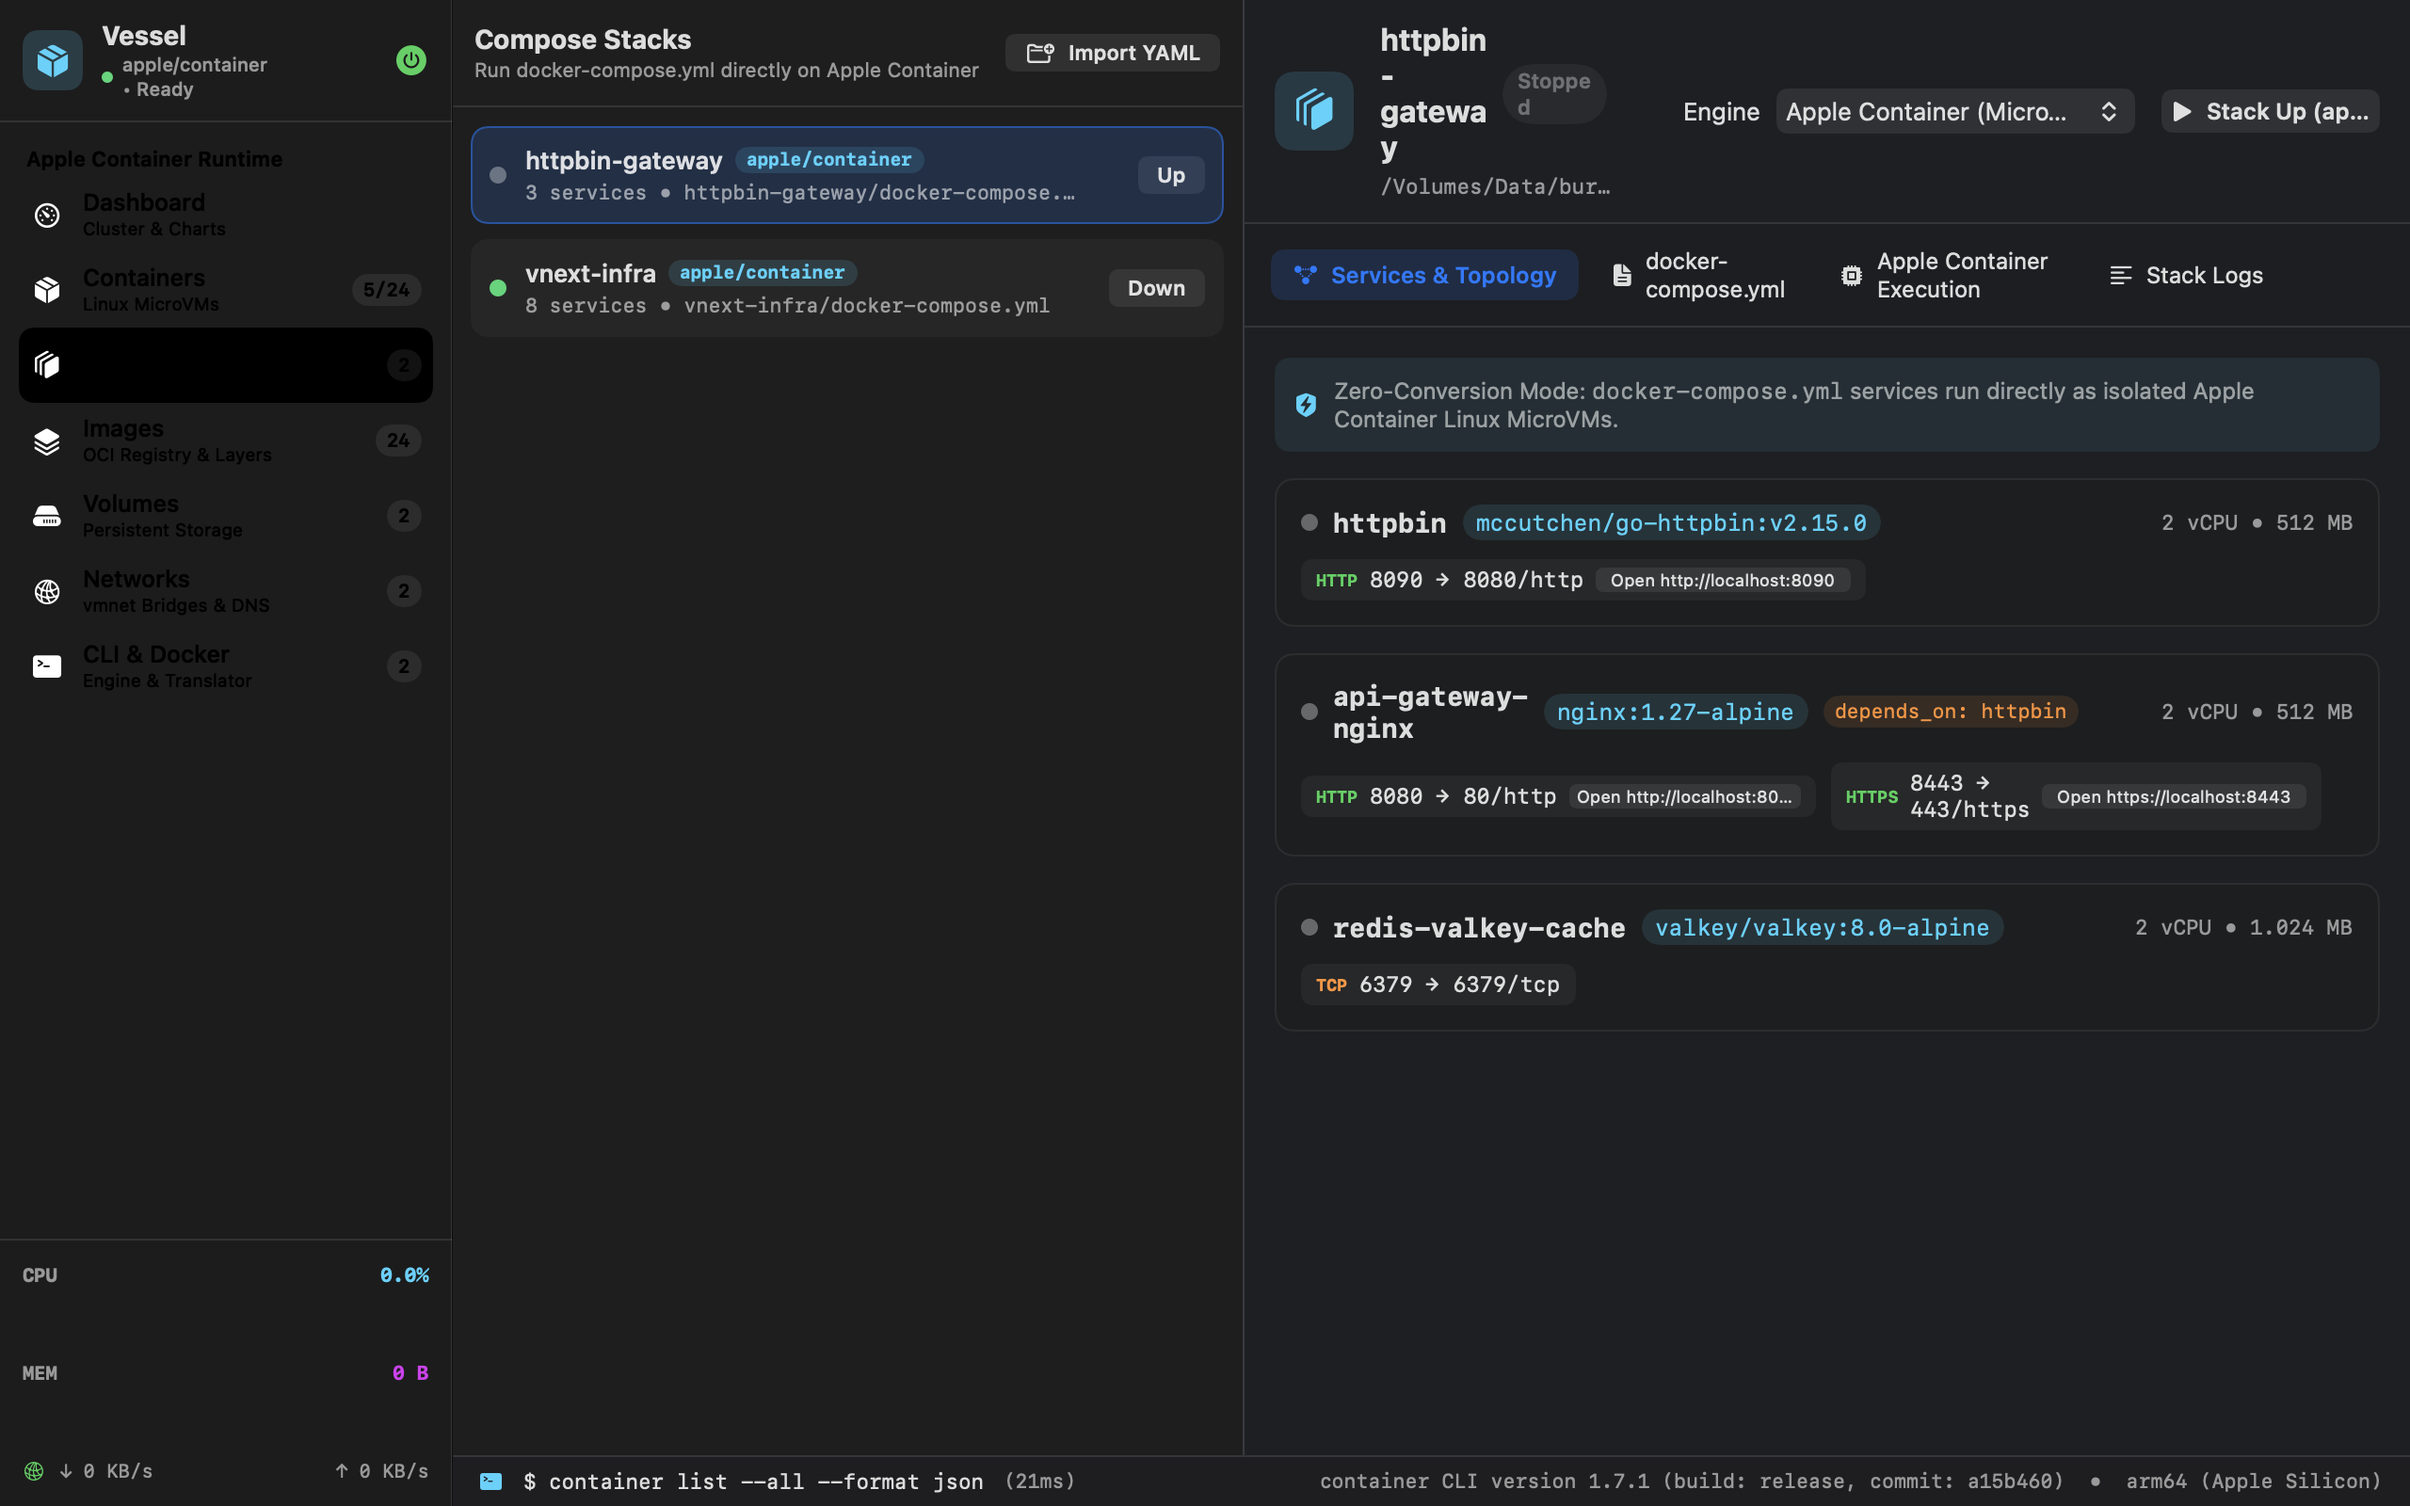
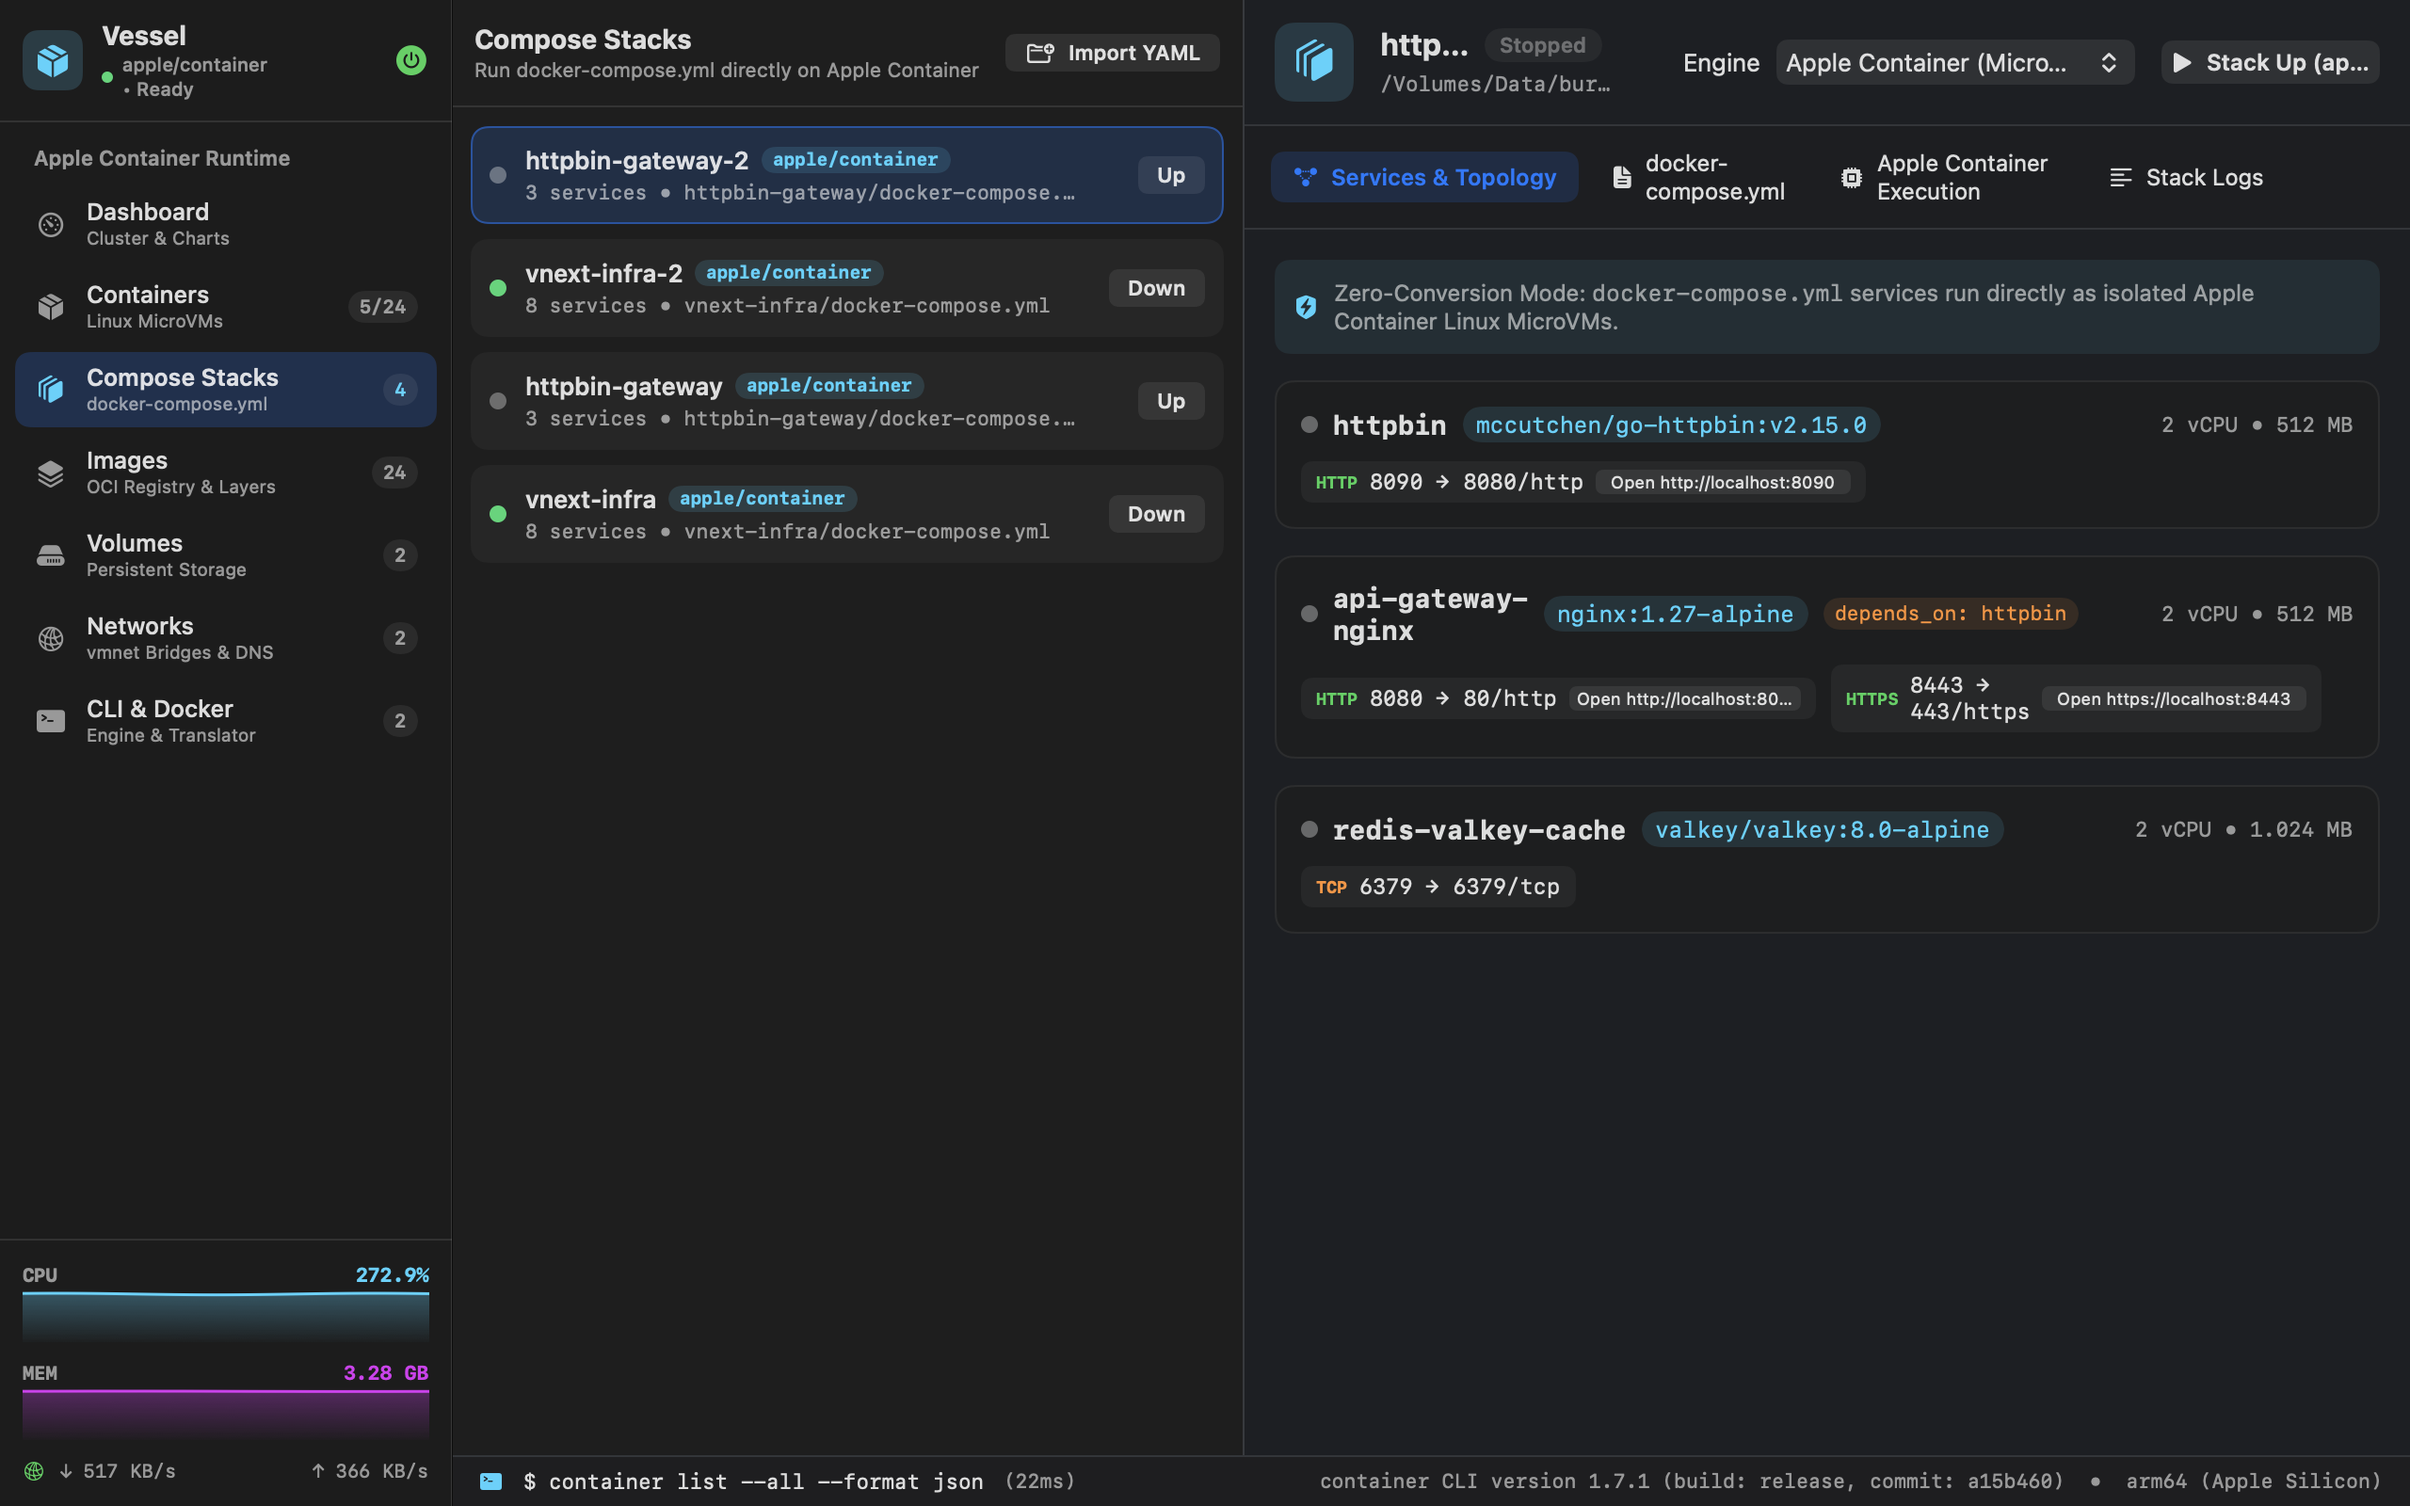
fix(ui): ensure sidebar text readability and prevent status badge wrapping in screenshots

diff --git a/Sources/AppleContainerUI/Views/MainWindowView.swift b/Sources/AppleContainerUI/Views/MainWindowView.swift
@@ -153,40 +153,60 @@ struct MainWindowView: View {
             Divider()
 
             // Navigation Items
-            List(selection: $store.selectedSidebar) {
-                Section(store.t("Apple Container Runtime", "Apple Konteyner Çalışma Zamanı")) {
+            ScrollView {
+                VStack(alignment: .leading, spacing: 4) {
+                    Text(store.t("Apple Container Runtime", "Apple Konteyner Çalışma Zamanı"))
+                        .font(.system(size: 11, weight: .semibold))
+                        .foregroundStyle(.secondary)
+                        .padding(.horizontal, 10)
+                        .padding(.top, 8)
+                        .padding(.bottom, 4)
+
                     ForEach(SidebarItem.allCases) { item in
-                        HStack(spacing: 10) {
-                            Image(systemName: item.icon)
-                                .font(.system(size: 13, weight: .medium))
-                                .foregroundStyle(store.selectedSidebar == item ? .cyan : .secondary)
-                                .frame(width: 18)
+                        let isSelected = store.selectedSidebar == item
+                        Button {
+                            store.selectedSidebar = item
+                        } label: {
+                            HStack(spacing: 10) {
+                                Image(systemName: item.icon)
+                                    .font(.system(size: 13, weight: .medium))
+                                    .foregroundStyle(isSelected ? .cyan : .secondary)
+                                    .frame(width: 18)
 
-                            VStack(alignment: .leading, spacing: 1) {
-                                Text(item.title(in: store.language))
-                                    .font(.system(size: 12.5, weight: .medium))
-                                Text(item.localizedSubtitle(in: store.language))
-                                    .font(.system(size: 9.5))
-                                    .foregroundStyle(.secondary)
+                                VStack(alignment: .leading, spacing: 1) {
+                                    Text(item.title(in: store.language))
+                                        .font(.system(size: 12.5, weight: isSelected ? .semibold : .medium))
+                                        .foregroundStyle(.primary)
+                                    Text(item.localizedSubtitle(in: store.language))
+                                        .font(.system(size: 9.5))
+                                        .foregroundStyle(.secondary)
+                                }
+
+                                Spacer()
+
+                                if let badge = badgeText(for: item) {
+                                    Text(badge)
+                                        .font(.system(size: 10, weight: .semibold, design: .monospaced))
+                                        .foregroundStyle(isSelected ? .cyan : .secondary)
+                                        .padding(.horizontal, 6)
+                                        .padding(.vertical, 2)
+                                        .background(Color.primary.opacity(0.08), in: Capsule())
+                                }
                             }
-
-                            Spacer()
-
-                            if let badge = badgeText(for: item) {
-                                Text(badge)
-                                    .font(.system(size: 10, weight: .semibold, design: .monospaced))
-                                    .foregroundStyle(.secondary)
-                                    .padding(.horizontal, 6)
-                                    .padding(.vertical, 2)
-                                    .background(Color.primary.opacity(0.08), in: Capsule())
-                            }
+                            .padding(.horizontal, 10)
+                            .padding(.vertical, 6)
+                            .background(
+                                RoundedRectangle(cornerRadius: 8, style: .continuous)
+                                    .fill(isSelected ? Color.accentColor.opacity(0.22) : Color.clear)
+                            )
+                            .contentShape(Rectangle())
                         }
-                        .tag(item)
-                        .padding(.vertical, 2)
+                        .buttonStyle(.plain)
                     }
                 }
+                .padding(.horizontal, 8)
+                .padding(.vertical, 4)
             }
-            .listStyle(.sidebar)
 
             Divider()
 

diff --git a/Sources/AppleContainerUI/Views/ContainersSplitView.swift b/Sources/AppleContainerUI/Views/ContainersSplitView.swift
@@ -220,6 +220,7 @@ struct ContainersSplitView: View {
                 HStack(spacing: 8) {
                     Text(container.name)
                         .font(.system(size: 16, weight: .bold))
+                        .lineLimit(1)
                     HStack(spacing: 5) {
                         Circle()
                             .fill(container.state.color)
@@ -231,6 +232,7 @@ struct ContainersSplitView: View {
                     .padding(.horizontal, 8)
                     .padding(.vertical, 2)
                     .background(container.state.color.opacity(0.12), in: Capsule())
+                    .fixedSize()
 
                     Text("\(container.os)/\(container.arch)")
                         .font(.system(size: 10, weight: .medium, design: .monospaced))
@@ -238,6 +240,7 @@ struct ContainersSplitView: View {
                         .padding(.horizontal, 6)
                         .padding(.vertical, 2)
                         .background(Color.primary.opacity(0.06), in: Capsule())
+                        .fixedSize()
                 }
 
                 HStack(spacing: 12) {

diff --git a/Sources/AppleContainerUI/Views/ComposeStacksView.swift b/Sources/AppleContainerUI/Views/ComposeStacksView.swift
@@ -149,12 +149,14 @@ struct ComposeStacksView: View {
                 HStack(spacing: 8) {
                     Text(stack.name)
                         .font(.system(size: 16, weight: .bold))
+                        .lineLimit(1)
                     Text(stack.status.localizedLabel(in: store.language))
                         .font(.system(size: 11, weight: .semibold))
                         .foregroundStyle(stack.status.color)
                         .padding(.horizontal, 8)
                         .padding(.vertical, 2)
                         .background(stack.status.color.opacity(0.14), in: Capsule())
+                        .fixedSize()
                 }
                 Text(stack.filePath)
                     .font(.system(size: 11, design: .monospaced))
